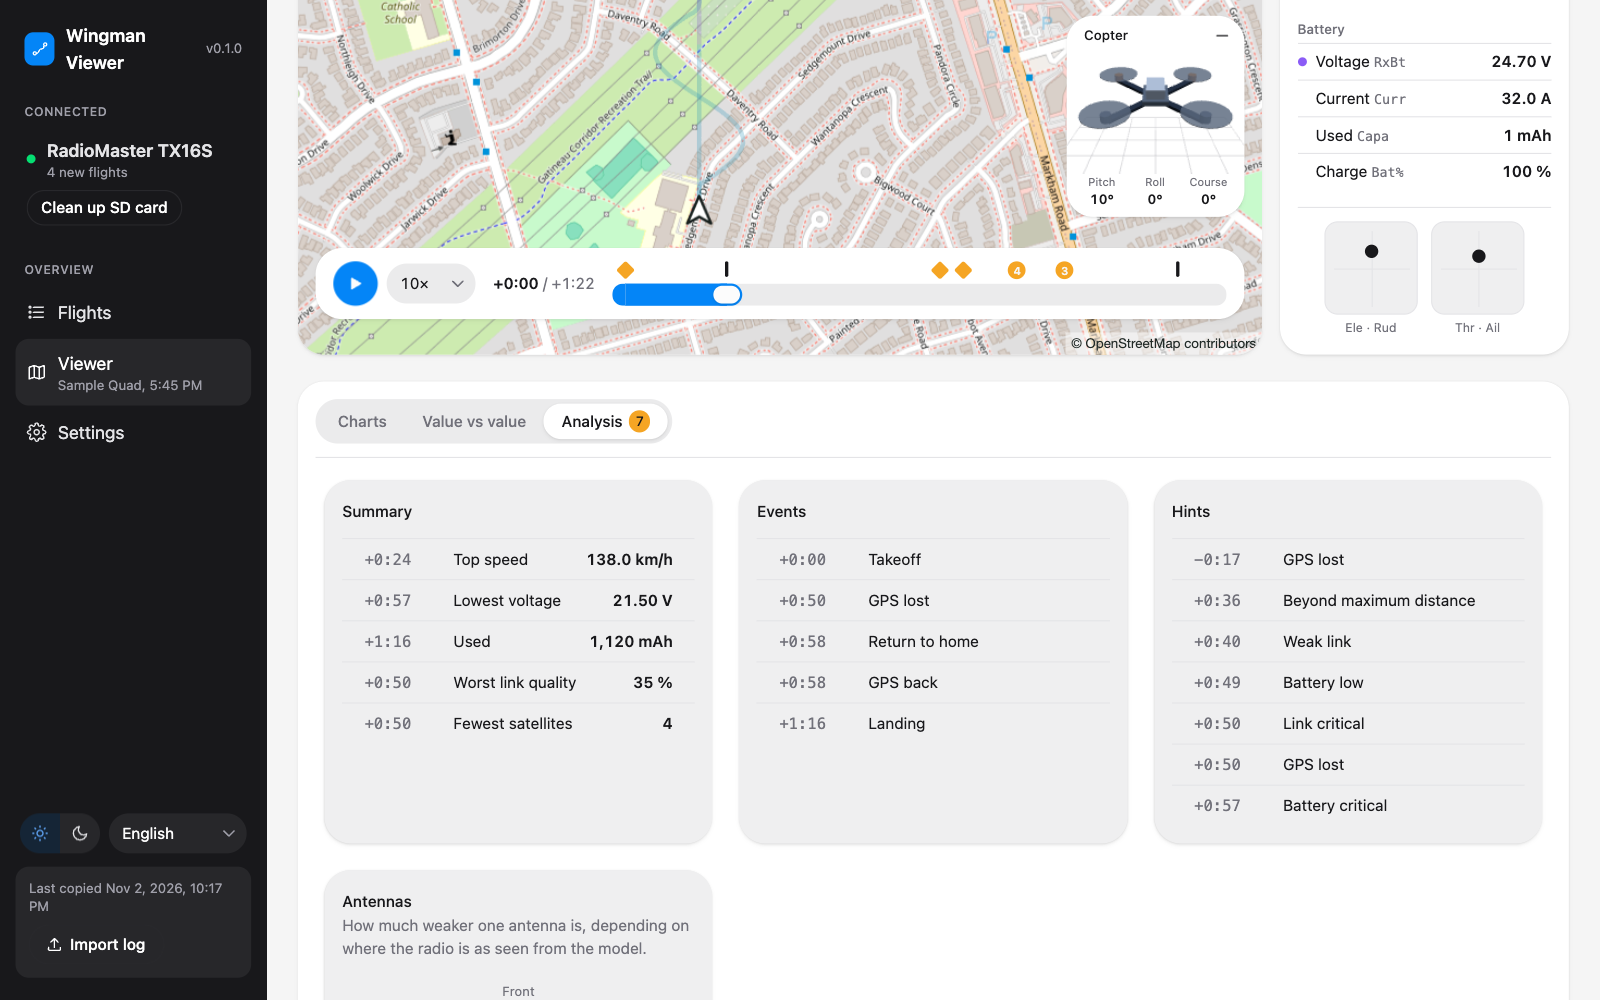
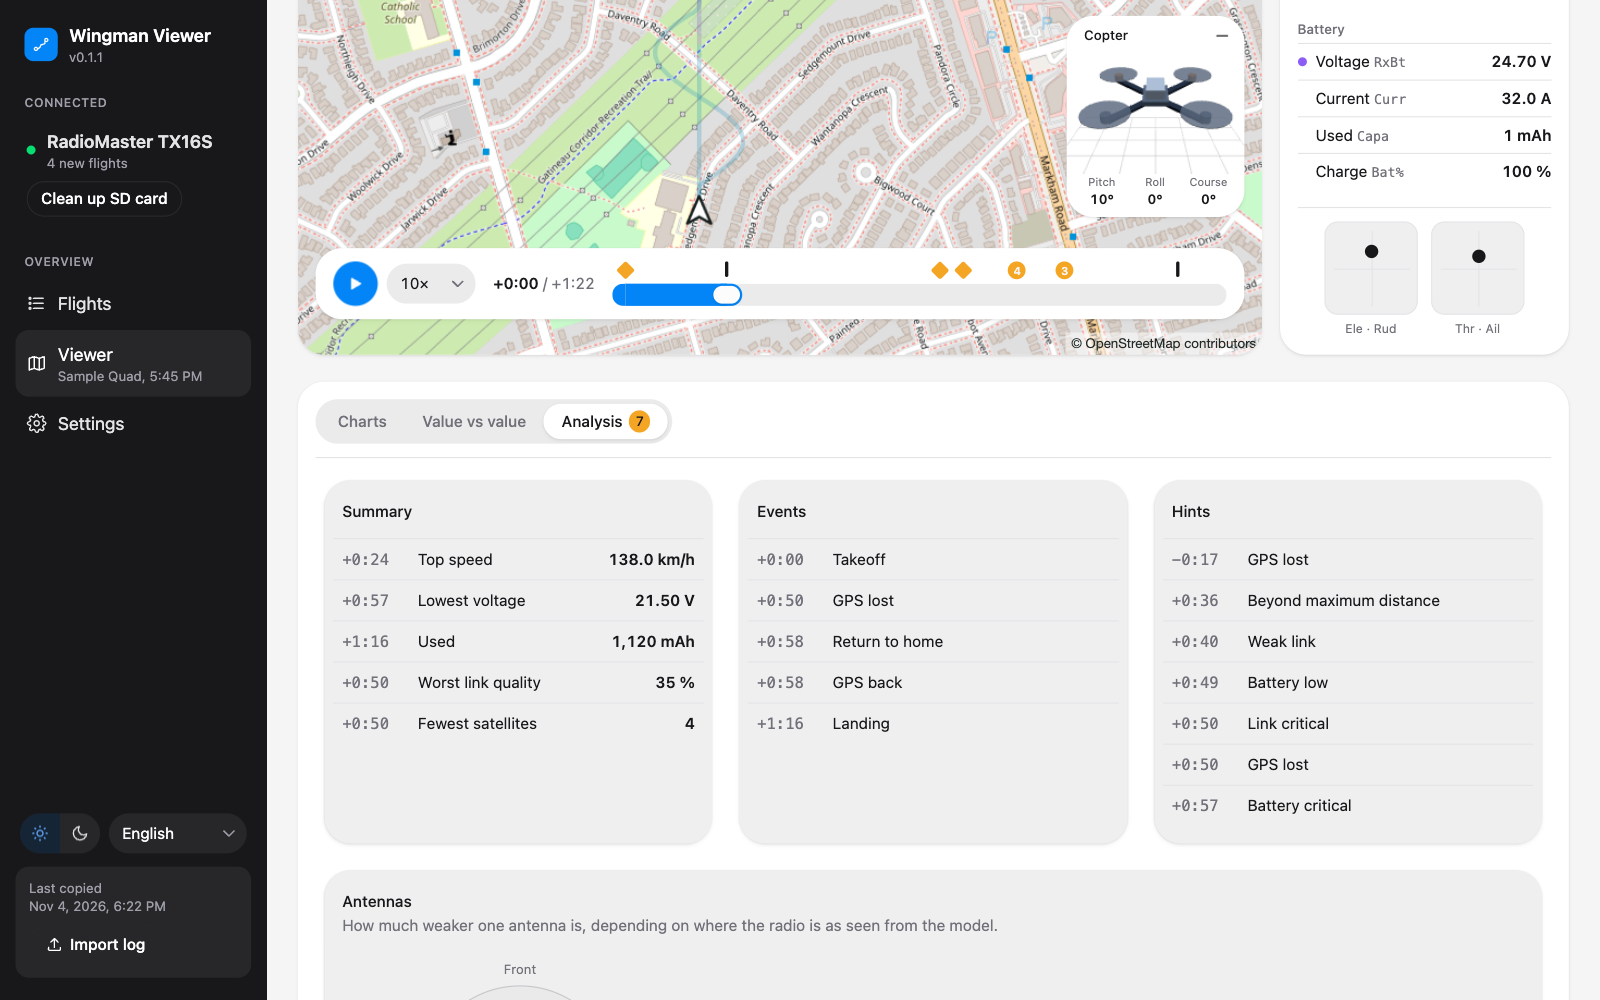
Release 0.1.1: new screenshots, keep the last copied date on one line

diff --git a/src/ui/components/Sidebar.tsx b/src/ui/components/Sidebar.tsx
@@ -152,7 +152,7 @@ export function Sidebar(props: {
         </div>
 
         <div className="flex flex-col gap-2 rounded-xl bg-zinc-800 p-3">
-          <span className="text-xs text-balance text-zinc-400">{state?.lastSync ? t.lastCopied(dateTime(state.lastSync, t.locale)) : t.notCopied}</span>
+          <span className="text-xs text-balance text-zinc-400">{state?.lastSync ? t.lastCopied(dateTime(state.lastSync, t.locale).replaceAll(' ', '\u00a0')) : t.notCopied}</span>
           <input
             ref={file}
             type="file"
